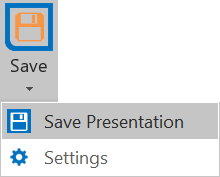
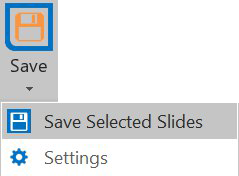
Update SaveLab Documentation (#83)
* updated save lab docs to change naming

* minor refactoring of naming

* Updated image for save lab

diff --git a/_docs/save-lab.md b/_docs/save-lab.md
@@ -3,14 +3,14 @@ layout: docs
 title: Save Lab
 ---
 
-## <a class="anchor-bookmark" id="save-presentation"></a> Save Presentation
-Save Presentation allows you to select any number of slides in your current presentation and save them as a new presentation. This comes in handy when you want need a quick way to store selected information from your presentations, e.g. when you need to quickly save and then send a subset of your slides to a co-worker.
+## <a class="anchor-bookmark" id="save-presentation"></a> Save Selected Slides
+**Save Selected Slides** allows you to select any number of slides in your current presentation and save them as a new presentation. This comes in handy when you want need a quick way to store selected information from your presentations, e.g. when you need to quickly save and then send a subset of your slides to a co-worker.
 
 <p>
-  <img src="{{ site.baseurl }}/img/docs/save-lab/save-lab-presentation.png" width="200">
+  <img class="box-shadow" src="{{ site.baseurl }}/img/docs/save-lab/save-lab-presentation.png" width="200">
 </p>
 
-> **Note:** Save Presentation preserves all important properties of selected slides, such as notes, animations and images.
+> **Note:** `Save Selected Slides` preserves all important properties of selected slides, such as notes, animations and images.
 
 ## <a class="anchor-bookmark" id="save-settings"></a> Save Settings
 Save Lab also remembers where you want to save your presentations, so you can input your preferred storage location once, and subsequently save all presentations easily to your desired directory.
@@ -18,9 +18,9 @@ Save Lab also remembers where you want to save your presentations, so you can in
 The default storage location is specified under `Settings`. Simply click on `Settings` in the Save dropdown menu, and then select your preferred storage location. After selecting, press `OK` to confirm.
 
 <p>
-  <img src="{{ site.baseurl }}/img/docs/save-lab/save-lab-settings-1.png" width="200">
+  <img class="box-shadow" src="{{ site.baseurl }}/img/docs/save-lab/save-lab-settings-1.png" width="200">
 </p>
 
 <p>
-  <img src="{{ site.baseurl }}/img/docs/save-lab/save-lab-settings-2.png" width="350">
+  <img class="box-shadow" src="{{ site.baseurl }}/img/docs/save-lab/save-lab-settings-2.png" width="350">
 </p>
